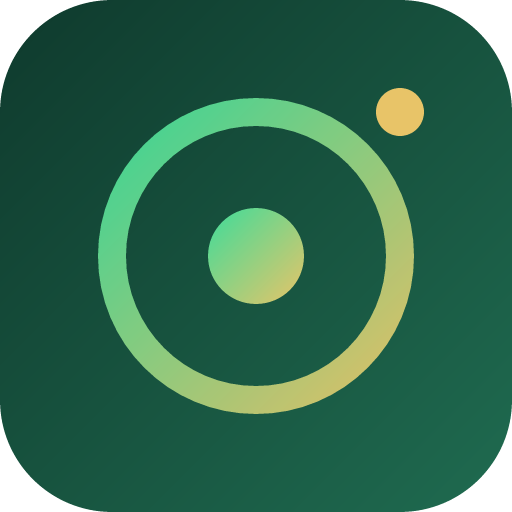
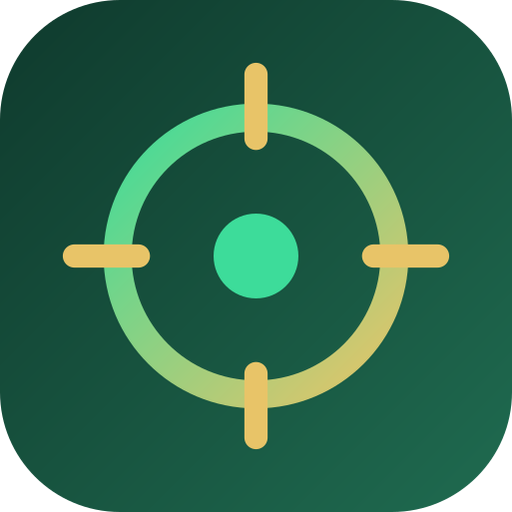
Unifica a identidade visual em torno de uma marca só (alvo de foco)
A aba do navegador (favicon = alvo de foco) e o app (badges com estrelinhas
Sparkles) usavam simbolos diferentes. Cria uma marca unica — anel
esmeralda->dourado com mira e ponto central, sobre quadrado verde-escuro —
usada de forma consistente em toda parte.

- Novo componente <Logo/> (SVG inline, fonte unica de verdade), substitui
  os badges Sparkles em AppShell, AppSidebar, auth, onboarding e bem-vindo.
  As estrelinhas da Maya (assistente) sao mantidas — sao identidade dela.
- favicon.svg redesenhado para a mesma marca (aba = app).
- pwa-192/pwa-512.png regenerados a partir do novo simbolo.
- manifest.webmanifest criado (estava referenciado mas faltando; a
  instalacao como PWA estava quebrada), com nome "Foco", cores do tema e
  os icones.

diff --git a/src/components/Logo.tsx b/src/components/Logo.tsx
@@ -1,0 +1,52 @@
+import { useId } from "react";
+
+/**
+ * Marca do Foco — um "alvo de foco": anel esmeralda→dourado com mira e ponto
+ * central, sobre um quadrado verde-escuro. É a MESMA marca do favicon
+ * (public/favicon.svg) e dos ícones PWA — fonte única de verdade para a
+ * identidade visual. Use no lugar de qualquer badge de logo do app.
+ */
+export function Logo({
+  size = 36,
+  className,
+  title = "Foco",
+}: {
+  size?: number;
+  className?: string;
+  title?: string;
+}) {
+  const uid = useId();
+  const badgeId = `foco-badge-${uid}`;
+  const ringId = `foco-ring-${uid}`;
+  return (
+    <svg
+      width={size}
+      height={size}
+      viewBox="0 0 48 48"
+      fill="none"
+      role="img"
+      aria-label={title}
+      className={className}
+    >
+      <defs>
+        <linearGradient id={badgeId} x1="0" y1="0" x2="1" y2="1">
+          <stop offset="0%" stopColor="#0f3a2d" />
+          <stop offset="100%" stopColor="#1f6b50" />
+        </linearGradient>
+        <linearGradient id={ringId} x1="0" y1="0" x2="1" y2="1">
+          <stop offset="0%" stopColor="#3ddc9a" />
+          <stop offset="100%" stopColor="#e8c468" />
+        </linearGradient>
+      </defs>
+      <rect width="48" height="48" rx="11" fill={`url(#${badgeId})`} />
+      <circle cx="24" cy="24" r="13" fill="none" stroke={`url(#${ringId})`} strokeWidth="2.6" />
+      <g stroke="#e8c468" strokeWidth="2.2" strokeLinecap="round">
+        <line x1="24" y1="7" x2="24" y2="13" />
+        <line x1="24" y1="35" x2="24" y2="41" />
+        <line x1="7" y1="24" x2="13" y2="24" />
+        <line x1="35" y1="24" x2="41" y2="24" />
+      </g>
+      <circle cx="24" cy="24" r="4" fill="#3ddc9a" />
+    </svg>
+  );
+}

diff --git a/src/components/AppShell.tsx b/src/components/AppShell.tsx
@@ -9,7 +9,8 @@ import { MayaChat } from "@/components/MayaChat";
 import { QuickAddTaskButton } from "@/components/QuickAddTaskButton";
 import { SidebarProvider, SidebarTrigger } from "@/components/ui/sidebar";
 import { Button } from "@/components/ui/button";
-import { Search, Sparkles } from "lucide-react";
+import { Search } from "lucide-react";
+import { Logo } from "@/components/Logo";
 import { NotificationsBell } from "@/components/NotificationsBell";
 import { useAppBadge } from "@/hooks/useAppBadge";
 import { useAccentColor } from "@/hooks/useAccentColor";
@@ -90,9 +91,9 @@ function Shell({ children }: { children: ReactNode }) {
     return (
       <div className="flex min-h-dvh items-center justify-center text-muted-foreground">
         <div className="flex items-center gap-3">
-          <span className="relative flex h-8 w-8 items-center justify-center rounded-xl bg-gradient-prestige shadow-glow">
+          <span className="relative flex h-8 w-8 items-center justify-center">
             <span className="absolute inset-0 animate-ping rounded-xl bg-primary/30" />
-            <Sparkles className="relative h-4 w-4 text-primary-foreground" />
+            <Logo size={32} className="relative shadow-glow" />
           </span>
           <span className="text-sm">Carregando…</span>
         </div>

diff --git a/src/routes/onboarding.tsx b/src/routes/onboarding.tsx
@@ -3,7 +3,8 @@ import { useEffect, useState } from "react";
 import { useServerFn } from "@tanstack/react-start";
 import { useMutation, useQuery } from "@tanstack/react-query";
 import { motion, AnimatePresence } from "framer-motion";
-import { Sparkles, ArrowRight, FolderKanban, ListTodo, Plus, X, SkipForward } from "lucide-react";
+import { ArrowRight, FolderKanban, ListTodo, Plus, X, SkipForward } from "lucide-react";
+import { Logo } from "@/components/Logo";
 import { Button } from "@/components/ui/button";
 import { Input } from "@/components/ui/input";
 import { Label } from "@/components/ui/label";
@@ -88,9 +89,7 @@ function OnboardingPage() {
     <div className="min-h-dvh bg-background flex items-center justify-center p-4">
       <Card className="w-full max-w-xl p-6 sm:p-8 space-y-6 shadow-elegant">
         <div className="flex items-center gap-3">
-          <span className="flex h-10 w-10 items-center justify-center rounded-xl bg-gradient-prestige shadow-glow">
-            <Sparkles className="h-5 w-5 text-primary-foreground" />
-          </span>
+          <Logo size={40} className="shadow-glow" />
           <div>
             <p className="text-xs font-medium uppercase tracking-[0.18em] text-muted-foreground">Bem-vindo</p>
             <h1 className="font-display text-xl font-semibold">Em menos de 1 minuto você está dentro</h1>

diff --git a/src/components/AppSidebar.tsx b/src/components/AppSidebar.tsx
@@ -9,9 +9,9 @@ import {
   LogOut,
   Search,
   Settings,
-  Sparkles,
   Users,
 } from "lucide-react";
+import { Logo } from "@/components/Logo";
 import { useEffect, useState } from "react";
 import {
   Sidebar,
@@ -168,8 +168,8 @@ export function AppSidebar({ onOpenSearch }: { onOpenSearch: () => void }) {
     <Sidebar collapsible="icon">
       <SidebarHeader className="border-b border-sidebar-border/60">
         <Link to="/" className="flex items-center gap-2.5 px-2 py-2">
-          <div className="relative flex h-9 w-9 shrink-0 items-center justify-center rounded-xl bg-gradient-prestige shadow-glow">
-            <Sparkles className="h-4 w-4 text-primary-foreground" />
+          <div className="relative shrink-0">
+            <Logo size={36} className="shadow-glow" />
             <span className="absolute -bottom-0.5 -right-0.5 h-2 w-2 rounded-full bg-circumstantial ring-2 ring-sidebar" />
           </div>
           {!collapsed && (

diff --git a/src/routes/auth.tsx b/src/routes/auth.tsx
@@ -7,7 +7,7 @@ import { Button } from "@/components/ui/button";
 import { Input } from "@/components/ui/input";
 import { Label } from "@/components/ui/label";
 import { Tabs, TabsList, TabsTrigger, TabsContent } from "@/components/ui/tabs";
-import { Sparkles } from "lucide-react";
+import { Logo } from "@/components/Logo";
 import { toast } from "sonner";
 
 export const Route = createFileRoute("/auth")({
@@ -64,9 +64,7 @@ function AuthPage() {
     <div className="flex min-h-screen items-center justify-center px-4">
       <div className="w-full max-w-md">
         <div className="mb-8 text-center">
-          <div className="mx-auto mb-4 flex h-14 w-14 items-center justify-center rounded-2xl bg-gradient-prestige shadow-[var(--shadow-glow)]">
-            <Sparkles className="h-7 w-7 text-primary-foreground" />
-          </div>
+          <Logo size={56} className="mx-auto mb-4 shadow-[var(--shadow-glow)]" />
           <h1 className="font-display text-3xl font-bold">Foco</h1>
           <p className="mt-2 text-sm text-muted-foreground">
             Sua jornada diária, organizada por urgência e importância.

diff --git a/src/routes/bem-vindo.tsx b/src/routes/bem-vindo.tsx
@@ -1,7 +1,6 @@
 import { createFileRoute, Link, useNavigate } from "@tanstack/react-router";
 import { motion } from "framer-motion";
 import {
-  Sparkles,
   ListTodo,
   FolderKanban,
   Inbox,
@@ -9,6 +8,7 @@ import {
   Plug,
   ArrowRight,
 } from "lucide-react";
+import { Logo } from "@/components/Logo";
 import { AuthProvider, useAuth } from "@/lib/auth";
 import { Card } from "@/components/ui/card";
 import { Button } from "@/components/ui/button";
@@ -77,9 +77,7 @@ function Welcome() {
           transition={{ duration: 0.4, ease: [0.22, 1, 0.36, 1] }}
           className="space-y-3 text-center"
         >
-          <span className="inline-flex h-12 w-12 items-center justify-center rounded-2xl bg-gradient-prestige shadow-glow">
-            <Sparkles className="h-6 w-6 text-primary-foreground" />
-          </span>
+          <Logo size={48} className="shadow-glow" />
           <h1 className="font-display text-3xl font-semibold tracking-tight">Boas-vindas ao Focou</h1>
           <p className="text-muted-foreground">Por onde você quer começar?</p>
         </motion.div>